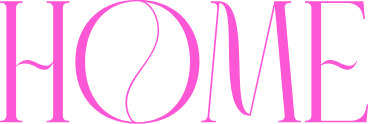
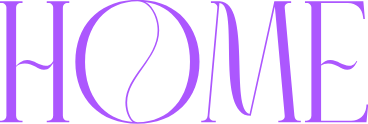
update: images, style

diff --git a/public/css/style.css b/public/css/style.css
@@ -16,7 +16,7 @@
 /*------------------------------------------------------------------*/
 :root{
 	--sbc: #0a0a0a;
-	--mc: #ff57d8;
+	--mc: #af81f7;
 	/* --mc: #a791e9; */
 	--hc: #fff;
 	--bc: #ccc;

diff --git a/pages/api/hello.js b/pages/api/hello.js
@@ -1,0 +1,5 @@
+// Next.js API route support: https://nextjs.org/docs/api-routes/introduction
+
+export default function handler(req, res) {
+  res.status(200).json({ name: 'John Doe' })
+}
